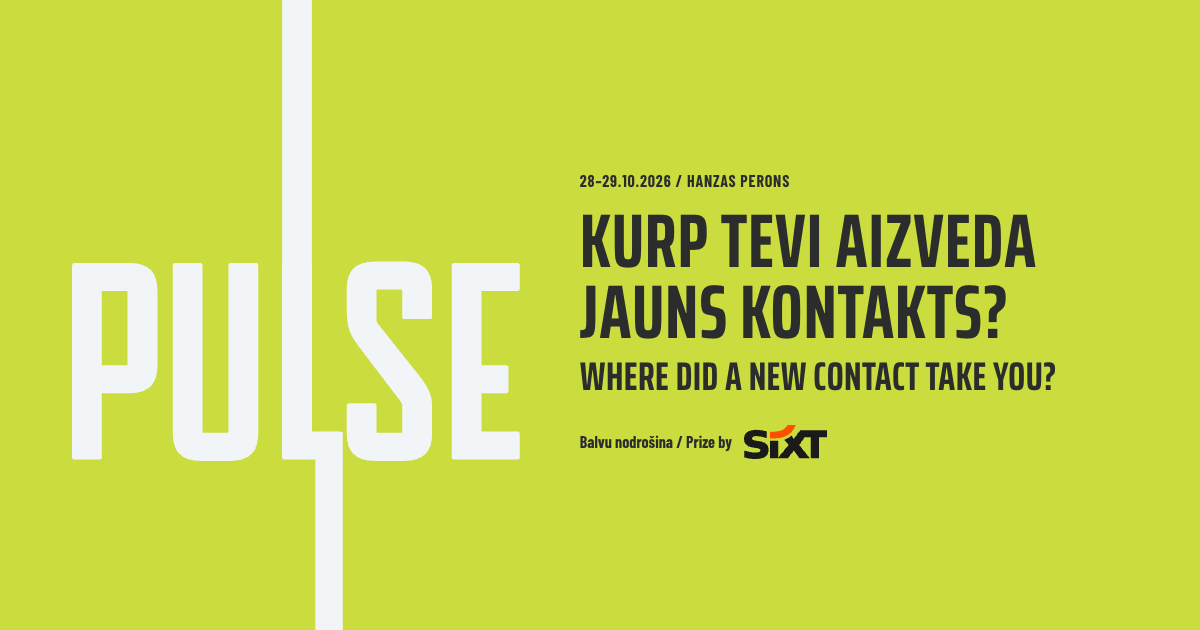
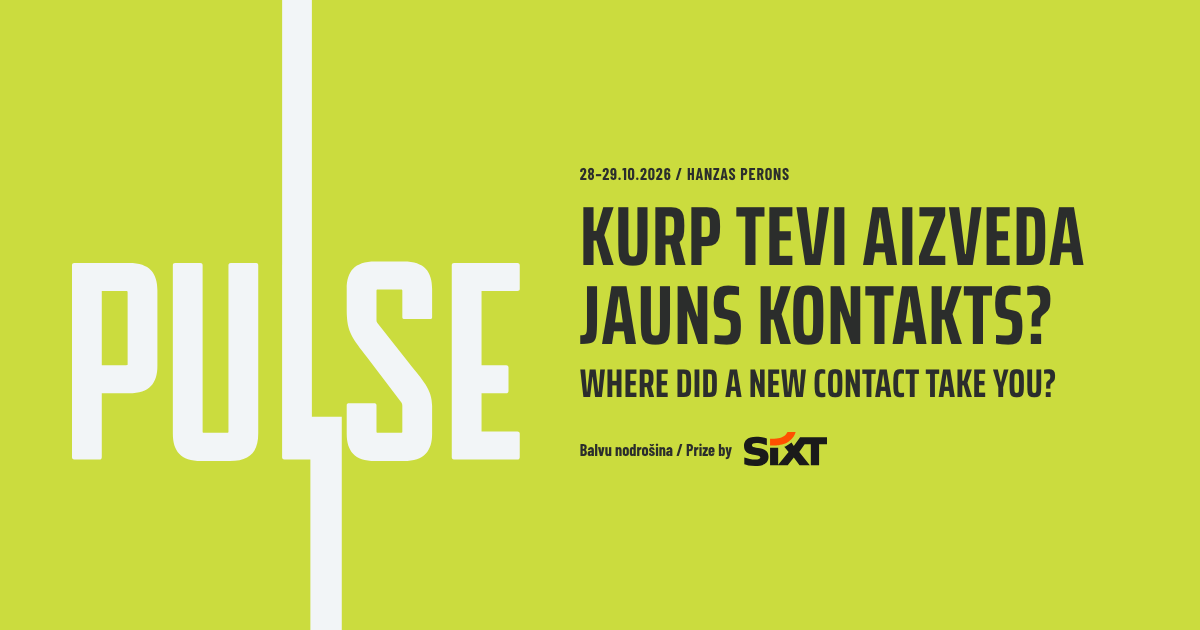
Draw the L-line in one stroke, comet pulse, site's step
Logo: line 2 as on pulseforum.co [as thick as line 1, starts above the
L's foot], so the L reads as one zig-zag; share image and icons redone.
Intro: the whole L-line draws down in one stroke, P U then S E rise.
Pulse: pulse.js, a slim orange comet with a soft glow, two beats.
WebKit clipped the stroke to its path's box: a fill-less rect fixes it.

diff --git a/frontend/index.html b/frontend/index.html
@@ -34,7 +34,7 @@
 
 <main>
   <section id="start" class="screen screen--lime" aria-labelledby="start-title">
-    <div class="cover-mark"><svg class="mark mark--hero" viewBox="54.15 0 575.69 810" role="img" aria-label="PULSE"><defs><clipPath id="zz-a"><rect x="324.33" y="0" width="38.25" height="432"/><path transform="translate(308.04 590.85)" d="M 19.140625 0 L 89.203125 0 C 91.015625 0 92.09375 -0.71875 92.09375 -2.890625 L 92.09375 -33.21875 C 92.09375 -34.671875 91.015625 -36.109375 89.203125 -36.109375 L 54.53125 -36.109375 L 54.53125 -249.921875 C 54.53125 -251.71875 53.453125 -252.8125 51.640625 -252.8125 L 19.140625 -252.8125 C 17.328125 -252.8125 16.25 -251.71875 16.25 -249.921875 L 16.25 -2.890625 C 16.25 -1.8125 16.96875 0 19.140625 0 Z M 19.140625 0"/><rect x="367.03" y="555.31" width="35.25" height="254.69"/></clipPath></defs><g class="mk-letters"><g class="mk-letter"><path transform="translate(37.9 590.85)" d="M 19.140625 0 L 51.640625 0 C 53.453125 0 54.53125 -0.71875 54.53125 -2.890625 L 54.53125 -85.234375 L 89.5625 -85.234375 C 116.296875 -85.234375 126.046875 -98.234375 126.046875 -120.625 L 126.046875 -217.421875 C 126.046875 -239.8125 116.296875 -252.8125 89.5625 -252.8125 L 19.140625 -252.8125 C 17.328125 -252.8125 16.25 -251.71875 16.25 -249.921875 L 16.25 -2.890625 C 16.25 -1.8125 16.96875 0 19.140625 0 Z M 54.53125 -121.34375 L 54.53125 -216.6875 L 85.953125 -216.6875 C 87.40625 -216.6875 87.765625 -216.328125 87.765625 -214.890625 L 87.765625 -123.15625 C 87.765625 -121.703125 87.40625 -121.34375 85.953125 -121.34375 Z M 54.53125 -121.34375"/></g><g class="mk-letter"><path transform="translate(169.36 590.85)" d="M 50.921875 1.8125 L 87.765625 1.8125 C 114.484375 1.8125 124.234375 -11.203125 124.234375 -33.59375 L 124.234375 -249.921875 C 124.234375 -251.71875 123.15625 -252.8125 121.703125 -252.8125 L 88.84375 -252.8125 C 87.40625 -252.8125 85.953125 -251.71875 85.953125 -249.921875 L 85.953125 -36.109375 C 85.953125 -34.671875 85.59375 -34.3125 84.15625 -34.3125 L 54.53125 -34.3125 C 53.09375 -34.3125 52.734375 -34.671875 52.734375 -36.109375 L 52.734375 -249.921875 C 52.734375 -251.71875 51.640625 -252.8125 49.84375 -252.8125 L 17.328125 -252.8125 C 15.53125 -252.8125 14.453125 -251.71875 14.453125 -249.921875 L 14.453125 -33.59375 C 14.453125 -11.203125 24.203125 1.8125 50.921875 1.8125 Z M 50.921875 1.8125"/></g><g class="mk-letter"><path transform="translate(308.04 590.85)" d="M 19.140625 0 L 89.203125 0 C 91.015625 0 92.09375 -0.71875 92.09375 -2.890625 L 92.09375 -33.21875 C 92.09375 -34.671875 91.015625 -36.109375 89.203125 -36.109375 L 54.53125 -36.109375 L 54.53125 -249.921875 C 54.53125 -251.71875 53.453125 -252.8125 51.640625 -252.8125 L 19.140625 -252.8125 C 17.328125 -252.8125 16.25 -251.71875 16.25 -249.921875 L 16.25 -2.890625 C 16.25 -1.8125 16.96875 0 19.140625 0 Z M 19.140625 0"/></g><g class="mk-letter"><path transform="translate(398.33 590.85)" d="M 45.5 1.8125 L 82.34375 1.8125 C 109.0625 1.8125 118.828125 -11.203125 118.828125 -33.59375 L 118.828125 -68.984375 C 118.828125 -90.65625 106.546875 -102.203125 88.84375 -124.59375 L 48.75 -175.15625 C 47.671875 -176.609375 47.3125 -177.6875 47.3125 -179.5 L 47.3125 -216.6875 C 47.3125 -218.140625 47.671875 -218.5 49.125 -218.5 L 78.734375 -218.5 C 80.171875 -218.5 80.53125 -218.140625 80.53125 -216.6875 L 80.53125 -183.109375 C 80.53125 -181.296875 81.984375 -180.578125 83.421875 -180.578125 L 115.9375 -180.578125 C 117.734375 -180.578125 118.828125 -181.296875 118.828125 -183.109375 L 118.828125 -219.21875 C 118.828125 -241.609375 109.0625 -254.609375 82.34375 -254.609375 L 45.5 -254.609375 C 18.78125 -254.609375 9.03125 -241.609375 9.03125 -219.21875 L 9.03125 -192.140625 C 9.03125 -162.515625 16.609375 -156.015625 35.390625 -131.09375 L 79.09375 -73.671875 C 80.171875 -72.234375 80.53125 -70.78125 80.53125 -68.984375 L 80.53125 -36.109375 C 80.53125 -34.671875 80.171875 -34.3125 78.734375 -34.3125 L 49.125 -34.3125 C 47.671875 -34.3125 47.3125 -34.671875 47.3125 -36.109375 L 47.3125 -69.703125 C 47.3125 -71.515625 45.859375 -72.234375 44.421875 -72.234375 L 11.921875 -72.234375 C 10.109375 -72.234375 9.03125 -71.515625 9.03125 -69.703125 L 9.03125 -33.59375 C 9.03125 -11.203125 18.78125 1.8125 45.5 1.8125 Z M 45.5 1.8125"/></g><g class="mk-letter"><path transform="translate(526.18 590.85)" d="M 19.140625 0 L 100.765625 0 C 102.203125 0 103.65625 -0.71875 103.65625 -2.890625 L 103.65625 -33.59375 C 103.65625 -35.03125 102.203125 -36.109375 100.765625 -36.109375 L 54.53125 -36.109375 L 54.53125 -85.234375 L 86.3125 -85.234375 C 87.765625 -85.234375 89.203125 -85.953125 89.203125 -88.125 L 89.203125 -118.453125 C 89.203125 -120.265625 87.765625 -121.34375 86.3125 -121.34375 L 54.53125 -121.34375 L 54.53125 -216.6875 L 100.765625 -216.6875 C 102.203125 -216.6875 103.65625 -217.421875 103.65625 -219.21875 L 103.65625 -249.921875 C 103.65625 -251.71875 102.203125 -252.8125 100.765625 -252.8125 L 19.140625 -252.8125 C 17.328125 -252.8125 16.25 -251.71875 16.25 -249.921875 L 16.25 -2.890625 C 16.25 -1.8125 16.96875 0 19.140625 0 Z M 19.140625 0"/></g></g><rect class="mk-line mk-l1" x="324.33" y="0" width="38.25" height="432"/><rect class="mk-line mk-l2" x="367.03" y="555.31" width="35.25" height="254.69"/><path class="mk-pulse" clip-path="url(#zz-a)" d="M343.46 -80V573.1H384.66V900" fill="none" stroke="#E07D14" stroke-width="44" stroke-dasharray="140 20000"/></svg></div>
+    <div class="cover-mark"><svg class="mark mark--hero" viewBox="54.15 0 575.69 810" role="img" aria-label="PULSE" data-pulse="hero"><defs><clipPath id="zz-a"><rect x="324.33" y="0" width="38.25" height="432"/><path transform="translate(308.04 590.85)" d="M 19.140625 0 L 89.203125 0 C 91.015625 0 92.09375 -0.71875 92.09375 -2.890625 L 92.09375 -33.21875 C 92.09375 -34.671875 91.015625 -36.109375 89.203125 -36.109375 L 54.53125 -36.109375 L 54.53125 -249.921875 C 54.53125 -251.71875 53.453125 -252.8125 51.640625 -252.8125 L 19.140625 -252.8125 C 17.328125 -252.8125 16.25 -251.71875 16.25 -249.921875 L 16.25 -2.890625 C 16.25 -1.8125 16.96875 0 19.140625 0 Z M 19.140625 0"/><rect x="360.64" y="535.92" width="40.37" height="274.08"/></clipPath></defs><g class="mk-letters"><g class="mk-letter"><path transform="translate(37.9 590.85)" d="M 19.140625 0 L 51.640625 0 C 53.453125 0 54.53125 -0.71875 54.53125 -2.890625 L 54.53125 -85.234375 L 89.5625 -85.234375 C 116.296875 -85.234375 126.046875 -98.234375 126.046875 -120.625 L 126.046875 -217.421875 C 126.046875 -239.8125 116.296875 -252.8125 89.5625 -252.8125 L 19.140625 -252.8125 C 17.328125 -252.8125 16.25 -251.71875 16.25 -249.921875 L 16.25 -2.890625 C 16.25 -1.8125 16.96875 0 19.140625 0 Z M 54.53125 -121.34375 L 54.53125 -216.6875 L 85.953125 -216.6875 C 87.40625 -216.6875 87.765625 -216.328125 87.765625 -214.890625 L 87.765625 -123.15625 C 87.765625 -121.703125 87.40625 -121.34375 85.953125 -121.34375 Z M 54.53125 -121.34375"/></g><g class="mk-letter"><path transform="translate(169.36 590.85)" d="M 50.921875 1.8125 L 87.765625 1.8125 C 114.484375 1.8125 124.234375 -11.203125 124.234375 -33.59375 L 124.234375 -249.921875 C 124.234375 -251.71875 123.15625 -252.8125 121.703125 -252.8125 L 88.84375 -252.8125 C 87.40625 -252.8125 85.953125 -251.71875 85.953125 -249.921875 L 85.953125 -36.109375 C 85.953125 -34.671875 85.59375 -34.3125 84.15625 -34.3125 L 54.53125 -34.3125 C 53.09375 -34.3125 52.734375 -34.671875 52.734375 -36.109375 L 52.734375 -249.921875 C 52.734375 -251.71875 51.640625 -252.8125 49.84375 -252.8125 L 17.328125 -252.8125 C 15.53125 -252.8125 14.453125 -251.71875 14.453125 -249.921875 L 14.453125 -33.59375 C 14.453125 -11.203125 24.203125 1.8125 50.921875 1.8125 Z M 50.921875 1.8125"/></g><g class="mk-letter"><path transform="translate(398.33 590.85)" d="M 45.5 1.8125 L 82.34375 1.8125 C 109.0625 1.8125 118.828125 -11.203125 118.828125 -33.59375 L 118.828125 -68.984375 C 118.828125 -90.65625 106.546875 -102.203125 88.84375 -124.59375 L 48.75 -175.15625 C 47.671875 -176.609375 47.3125 -177.6875 47.3125 -179.5 L 47.3125 -216.6875 C 47.3125 -218.140625 47.671875 -218.5 49.125 -218.5 L 78.734375 -218.5 C 80.171875 -218.5 80.53125 -218.140625 80.53125 -216.6875 L 80.53125 -183.109375 C 80.53125 -181.296875 81.984375 -180.578125 83.421875 -180.578125 L 115.9375 -180.578125 C 117.734375 -180.578125 118.828125 -181.296875 118.828125 -183.109375 L 118.828125 -219.21875 C 118.828125 -241.609375 109.0625 -254.609375 82.34375 -254.609375 L 45.5 -254.609375 C 18.78125 -254.609375 9.03125 -241.609375 9.03125 -219.21875 L 9.03125 -192.140625 C 9.03125 -162.515625 16.609375 -156.015625 35.390625 -131.09375 L 79.09375 -73.671875 C 80.171875 -72.234375 80.53125 -70.78125 80.53125 -68.984375 L 80.53125 -36.109375 C 80.53125 -34.671875 80.171875 -34.3125 78.734375 -34.3125 L 49.125 -34.3125 C 47.671875 -34.3125 47.3125 -34.671875 47.3125 -36.109375 L 47.3125 -69.703125 C 47.3125 -71.515625 45.859375 -72.234375 44.421875 -72.234375 L 11.921875 -72.234375 C 10.109375 -72.234375 9.03125 -71.515625 9.03125 -69.703125 L 9.03125 -33.59375 C 9.03125 -11.203125 18.78125 1.8125 45.5 1.8125 Z M 45.5 1.8125"/></g><g class="mk-letter"><path transform="translate(526.18 590.85)" d="M 19.140625 0 L 100.765625 0 C 102.203125 0 103.65625 -0.71875 103.65625 -2.890625 L 103.65625 -33.59375 C 103.65625 -35.03125 102.203125 -36.109375 100.765625 -36.109375 L 54.53125 -36.109375 L 54.53125 -85.234375 L 86.3125 -85.234375 C 87.765625 -85.234375 89.203125 -85.953125 89.203125 -88.125 L 89.203125 -118.453125 C 89.203125 -120.265625 87.765625 -121.34375 86.3125 -121.34375 L 54.53125 -121.34375 L 54.53125 -216.6875 L 100.765625 -216.6875 C 102.203125 -216.6875 103.65625 -217.421875 103.65625 -219.21875 L 103.65625 -249.921875 C 103.65625 -251.71875 102.203125 -252.8125 100.765625 -252.8125 L 19.140625 -252.8125 C 17.328125 -252.8125 16.25 -251.71875 16.25 -249.921875 L 16.25 -2.890625 C 16.25 -1.8125 16.96875 0 19.140625 0 Z M 19.140625 0"/></g></g><g clip-path="url(#zz-a)"><rect x="54.15" y="0" width="575.69" height="810" fill="none"/><path class="mk-zz" d="M343.46 0V563.39H380.83V810" pathLength="1" fill="none" stroke="currentColor" stroke-width="60"/></g></svg></div>
     <div class="cover-body">
       <p class="date">28–29.10.2026 / Hanzas perons</p>
       <h1 class="display" id="start-title" lang="lv">Kurp Tevi aizveda jauns kontakts?</h1>
@@ -49,7 +49,7 @@
   </section>
 
   <form id="entry" class="flow" novalidate hidden>
-    <header class="rail" aria-hidden="true"><svg class="mark mark--rail" viewBox="54.15 200 575.69 8800"><defs><clipPath id="zz-r"><rect x="324.33" y="0" width="38.25" height="432"/><path transform="translate(308.04 590.85)" d="M 19.140625 0 L 89.203125 0 C 91.015625 0 92.09375 -0.71875 92.09375 -2.890625 L 92.09375 -33.21875 C 92.09375 -34.671875 91.015625 -36.109375 89.203125 -36.109375 L 54.53125 -36.109375 L 54.53125 -249.921875 C 54.53125 -251.71875 53.453125 -252.8125 51.640625 -252.8125 L 19.140625 -252.8125 C 17.328125 -252.8125 16.25 -251.71875 16.25 -249.921875 L 16.25 -2.890625 C 16.25 -1.8125 16.96875 0 19.140625 0 Z M 19.140625 0"/><rect x="367.03" y="555.31" width="35.25" height="8444.69"/></clipPath></defs><g class="mk-letters"><g class="mk-letter"><path transform="translate(37.9 590.85)" d="M 19.140625 0 L 51.640625 0 C 53.453125 0 54.53125 -0.71875 54.53125 -2.890625 L 54.53125 -85.234375 L 89.5625 -85.234375 C 116.296875 -85.234375 126.046875 -98.234375 126.046875 -120.625 L 126.046875 -217.421875 C 126.046875 -239.8125 116.296875 -252.8125 89.5625 -252.8125 L 19.140625 -252.8125 C 17.328125 -252.8125 16.25 -251.71875 16.25 -249.921875 L 16.25 -2.890625 C 16.25 -1.8125 16.96875 0 19.140625 0 Z M 54.53125 -121.34375 L 54.53125 -216.6875 L 85.953125 -216.6875 C 87.40625 -216.6875 87.765625 -216.328125 87.765625 -214.890625 L 87.765625 -123.15625 C 87.765625 -121.703125 87.40625 -121.34375 85.953125 -121.34375 Z M 54.53125 -121.34375"/></g><g class="mk-letter"><path transform="translate(169.36 590.85)" d="M 50.921875 1.8125 L 87.765625 1.8125 C 114.484375 1.8125 124.234375 -11.203125 124.234375 -33.59375 L 124.234375 -249.921875 C 124.234375 -251.71875 123.15625 -252.8125 121.703125 -252.8125 L 88.84375 -252.8125 C 87.40625 -252.8125 85.953125 -251.71875 85.953125 -249.921875 L 85.953125 -36.109375 C 85.953125 -34.671875 85.59375 -34.3125 84.15625 -34.3125 L 54.53125 -34.3125 C 53.09375 -34.3125 52.734375 -34.671875 52.734375 -36.109375 L 52.734375 -249.921875 C 52.734375 -251.71875 51.640625 -252.8125 49.84375 -252.8125 L 17.328125 -252.8125 C 15.53125 -252.8125 14.453125 -251.71875 14.453125 -249.921875 L 14.453125 -33.59375 C 14.453125 -11.203125 24.203125 1.8125 50.921875 1.8125 Z M 50.921875 1.8125"/></g><g class="mk-letter"><path transform="translate(308.04 590.85)" d="M 19.140625 0 L 89.203125 0 C 91.015625 0 92.09375 -0.71875 92.09375 -2.890625 L 92.09375 -33.21875 C 92.09375 -34.671875 91.015625 -36.109375 89.203125 -36.109375 L 54.53125 -36.109375 L 54.53125 -249.921875 C 54.53125 -251.71875 53.453125 -252.8125 51.640625 -252.8125 L 19.140625 -252.8125 C 17.328125 -252.8125 16.25 -251.71875 16.25 -249.921875 L 16.25 -2.890625 C 16.25 -1.8125 16.96875 0 19.140625 0 Z M 19.140625 0"/></g><g class="mk-letter"><path transform="translate(398.33 590.85)" d="M 45.5 1.8125 L 82.34375 1.8125 C 109.0625 1.8125 118.828125 -11.203125 118.828125 -33.59375 L 118.828125 -68.984375 C 118.828125 -90.65625 106.546875 -102.203125 88.84375 -124.59375 L 48.75 -175.15625 C 47.671875 -176.609375 47.3125 -177.6875 47.3125 -179.5 L 47.3125 -216.6875 C 47.3125 -218.140625 47.671875 -218.5 49.125 -218.5 L 78.734375 -218.5 C 80.171875 -218.5 80.53125 -218.140625 80.53125 -216.6875 L 80.53125 -183.109375 C 80.53125 -181.296875 81.984375 -180.578125 83.421875 -180.578125 L 115.9375 -180.578125 C 117.734375 -180.578125 118.828125 -181.296875 118.828125 -183.109375 L 118.828125 -219.21875 C 118.828125 -241.609375 109.0625 -254.609375 82.34375 -254.609375 L 45.5 -254.609375 C 18.78125 -254.609375 9.03125 -241.609375 9.03125 -219.21875 L 9.03125 -192.140625 C 9.03125 -162.515625 16.609375 -156.015625 35.390625 -131.09375 L 79.09375 -73.671875 C 80.171875 -72.234375 80.53125 -70.78125 80.53125 -68.984375 L 80.53125 -36.109375 C 80.53125 -34.671875 80.171875 -34.3125 78.734375 -34.3125 L 49.125 -34.3125 C 47.671875 -34.3125 47.3125 -34.671875 47.3125 -36.109375 L 47.3125 -69.703125 C 47.3125 -71.515625 45.859375 -72.234375 44.421875 -72.234375 L 11.921875 -72.234375 C 10.109375 -72.234375 9.03125 -71.515625 9.03125 -69.703125 L 9.03125 -33.59375 C 9.03125 -11.203125 18.78125 1.8125 45.5 1.8125 Z M 45.5 1.8125"/></g><g class="mk-letter"><path transform="translate(526.18 590.85)" d="M 19.140625 0 L 100.765625 0 C 102.203125 0 103.65625 -0.71875 103.65625 -2.890625 L 103.65625 -33.59375 C 103.65625 -35.03125 102.203125 -36.109375 100.765625 -36.109375 L 54.53125 -36.109375 L 54.53125 -85.234375 L 86.3125 -85.234375 C 87.765625 -85.234375 89.203125 -85.953125 89.203125 -88.125 L 89.203125 -118.453125 C 89.203125 -120.265625 87.765625 -121.34375 86.3125 -121.34375 L 54.53125 -121.34375 L 54.53125 -216.6875 L 100.765625 -216.6875 C 102.203125 -216.6875 103.65625 -217.421875 103.65625 -219.21875 L 103.65625 -249.921875 C 103.65625 -251.71875 102.203125 -252.8125 100.765625 -252.8125 L 19.140625 -252.8125 C 17.328125 -252.8125 16.25 -251.71875 16.25 -249.921875 L 16.25 -2.890625 C 16.25 -1.8125 16.96875 0 19.140625 0 Z M 19.140625 0"/></g></g><rect class="mk-line mk-l1" x="324.33" y="0" width="38.25" height="432"/><rect class="mk-line mk-l2" x="367.03" y="555.31" width="35.25" height="8444.69"/><path class="mk-pulse" clip-path="url(#zz-r)" d="M343.46 120V573.1H384.66V9100" fill="none" stroke="#E07D14" stroke-width="44" stroke-dasharray="700 20000"/></svg></header>
+    <header class="rail" aria-hidden="true"><svg class="mark mark--rail" viewBox="54.15 200 575.69 8800" data-pulse="rail"><defs><clipPath id="zz-r"><rect x="324.33" y="0" width="38.25" height="432"/><path transform="translate(308.04 590.85)" d="M 19.140625 0 L 89.203125 0 C 91.015625 0 92.09375 -0.71875 92.09375 -2.890625 L 92.09375 -33.21875 C 92.09375 -34.671875 91.015625 -36.109375 89.203125 -36.109375 L 54.53125 -36.109375 L 54.53125 -249.921875 C 54.53125 -251.71875 53.453125 -252.8125 51.640625 -252.8125 L 19.140625 -252.8125 C 17.328125 -252.8125 16.25 -251.71875 16.25 -249.921875 L 16.25 -2.890625 C 16.25 -1.8125 16.96875 0 19.140625 0 Z M 19.140625 0"/><rect x="360.64" y="535.92" width="40.37" height="8464.08"/></clipPath></defs><g class="mk-letters"><g class="mk-letter"><path transform="translate(37.9 590.85)" d="M 19.140625 0 L 51.640625 0 C 53.453125 0 54.53125 -0.71875 54.53125 -2.890625 L 54.53125 -85.234375 L 89.5625 -85.234375 C 116.296875 -85.234375 126.046875 -98.234375 126.046875 -120.625 L 126.046875 -217.421875 C 126.046875 -239.8125 116.296875 -252.8125 89.5625 -252.8125 L 19.140625 -252.8125 C 17.328125 -252.8125 16.25 -251.71875 16.25 -249.921875 L 16.25 -2.890625 C 16.25 -1.8125 16.96875 0 19.140625 0 Z M 54.53125 -121.34375 L 54.53125 -216.6875 L 85.953125 -216.6875 C 87.40625 -216.6875 87.765625 -216.328125 87.765625 -214.890625 L 87.765625 -123.15625 C 87.765625 -121.703125 87.40625 -121.34375 85.953125 -121.34375 Z M 54.53125 -121.34375"/></g><g class="mk-letter"><path transform="translate(169.36 590.85)" d="M 50.921875 1.8125 L 87.765625 1.8125 C 114.484375 1.8125 124.234375 -11.203125 124.234375 -33.59375 L 124.234375 -249.921875 C 124.234375 -251.71875 123.15625 -252.8125 121.703125 -252.8125 L 88.84375 -252.8125 C 87.40625 -252.8125 85.953125 -251.71875 85.953125 -249.921875 L 85.953125 -36.109375 C 85.953125 -34.671875 85.59375 -34.3125 84.15625 -34.3125 L 54.53125 -34.3125 C 53.09375 -34.3125 52.734375 -34.671875 52.734375 -36.109375 L 52.734375 -249.921875 C 52.734375 -251.71875 51.640625 -252.8125 49.84375 -252.8125 L 17.328125 -252.8125 C 15.53125 -252.8125 14.453125 -251.71875 14.453125 -249.921875 L 14.453125 -33.59375 C 14.453125 -11.203125 24.203125 1.8125 50.921875 1.8125 Z M 50.921875 1.8125"/></g><g class="mk-letter"><path transform="translate(398.33 590.85)" d="M 45.5 1.8125 L 82.34375 1.8125 C 109.0625 1.8125 118.828125 -11.203125 118.828125 -33.59375 L 118.828125 -68.984375 C 118.828125 -90.65625 106.546875 -102.203125 88.84375 -124.59375 L 48.75 -175.15625 C 47.671875 -176.609375 47.3125 -177.6875 47.3125 -179.5 L 47.3125 -216.6875 C 47.3125 -218.140625 47.671875 -218.5 49.125 -218.5 L 78.734375 -218.5 C 80.171875 -218.5 80.53125 -218.140625 80.53125 -216.6875 L 80.53125 -183.109375 C 80.53125 -181.296875 81.984375 -180.578125 83.421875 -180.578125 L 115.9375 -180.578125 C 117.734375 -180.578125 118.828125 -181.296875 118.828125 -183.109375 L 118.828125 -219.21875 C 118.828125 -241.609375 109.0625 -254.609375 82.34375 -254.609375 L 45.5 -254.609375 C 18.78125 -254.609375 9.03125 -241.609375 9.03125 -219.21875 L 9.03125 -192.140625 C 9.03125 -162.515625 16.609375 -156.015625 35.390625 -131.09375 L 79.09375 -73.671875 C 80.171875 -72.234375 80.53125 -70.78125 80.53125 -68.984375 L 80.53125 -36.109375 C 80.53125 -34.671875 80.171875 -34.3125 78.734375 -34.3125 L 49.125 -34.3125 C 47.671875 -34.3125 47.3125 -34.671875 47.3125 -36.109375 L 47.3125 -69.703125 C 47.3125 -71.515625 45.859375 -72.234375 44.421875 -72.234375 L 11.921875 -72.234375 C 10.109375 -72.234375 9.03125 -71.515625 9.03125 -69.703125 L 9.03125 -33.59375 C 9.03125 -11.203125 18.78125 1.8125 45.5 1.8125 Z M 45.5 1.8125"/></g><g class="mk-letter"><path transform="translate(526.18 590.85)" d="M 19.140625 0 L 100.765625 0 C 102.203125 0 103.65625 -0.71875 103.65625 -2.890625 L 103.65625 -33.59375 C 103.65625 -35.03125 102.203125 -36.109375 100.765625 -36.109375 L 54.53125 -36.109375 L 54.53125 -85.234375 L 86.3125 -85.234375 C 87.765625 -85.234375 89.203125 -85.953125 89.203125 -88.125 L 89.203125 -118.453125 C 89.203125 -120.265625 87.765625 -121.34375 86.3125 -121.34375 L 54.53125 -121.34375 L 54.53125 -216.6875 L 100.765625 -216.6875 C 102.203125 -216.6875 103.65625 -217.421875 103.65625 -219.21875 L 103.65625 -249.921875 C 103.65625 -251.71875 102.203125 -252.8125 100.765625 -252.8125 L 19.140625 -252.8125 C 17.328125 -252.8125 16.25 -251.71875 16.25 -249.921875 L 16.25 -2.890625 C 16.25 -1.8125 16.96875 0 19.140625 0 Z M 19.140625 0"/></g></g><g clip-path="url(#zz-r)"><rect x="54.15" y="200" width="575.69" height="8800" fill="none"/><path class="mk-zz" d="M343.46 200V563.39H380.83V9000" pathLength="1" fill="none" stroke="currentColor" stroke-width="60"/></g></svg></header>
     <div class="flow-top">
       <button type="button" class="link-btn" id="lang-switch" data-t-aria="langSwitchAria"><span data-t="langSwitch">English</span></button>
     </div>
@@ -102,7 +102,7 @@
 
   <section id="done" class="screen screen--lime" hidden aria-live="polite">
     <div class="confetti" id="confetti" aria-hidden="true"></div>
-    <div class="cover-mark"><svg class="mark mark--hero" viewBox="54.15 0 575.69 810" role="img" aria-label="PULSE"><defs><clipPath id="zz-b"><rect x="324.33" y="0" width="38.25" height="432"/><path transform="translate(308.04 590.85)" d="M 19.140625 0 L 89.203125 0 C 91.015625 0 92.09375 -0.71875 92.09375 -2.890625 L 92.09375 -33.21875 C 92.09375 -34.671875 91.015625 -36.109375 89.203125 -36.109375 L 54.53125 -36.109375 L 54.53125 -249.921875 C 54.53125 -251.71875 53.453125 -252.8125 51.640625 -252.8125 L 19.140625 -252.8125 C 17.328125 -252.8125 16.25 -251.71875 16.25 -249.921875 L 16.25 -2.890625 C 16.25 -1.8125 16.96875 0 19.140625 0 Z M 19.140625 0"/><rect x="367.03" y="555.31" width="35.25" height="254.69"/></clipPath></defs><g class="mk-letters"><g class="mk-letter"><path transform="translate(37.9 590.85)" d="M 19.140625 0 L 51.640625 0 C 53.453125 0 54.53125 -0.71875 54.53125 -2.890625 L 54.53125 -85.234375 L 89.5625 -85.234375 C 116.296875 -85.234375 126.046875 -98.234375 126.046875 -120.625 L 126.046875 -217.421875 C 126.046875 -239.8125 116.296875 -252.8125 89.5625 -252.8125 L 19.140625 -252.8125 C 17.328125 -252.8125 16.25 -251.71875 16.25 -249.921875 L 16.25 -2.890625 C 16.25 -1.8125 16.96875 0 19.140625 0 Z M 54.53125 -121.34375 L 54.53125 -216.6875 L 85.953125 -216.6875 C 87.40625 -216.6875 87.765625 -216.328125 87.765625 -214.890625 L 87.765625 -123.15625 C 87.765625 -121.703125 87.40625 -121.34375 85.953125 -121.34375 Z M 54.53125 -121.34375"/></g><g class="mk-letter"><path transform="translate(169.36 590.85)" d="M 50.921875 1.8125 L 87.765625 1.8125 C 114.484375 1.8125 124.234375 -11.203125 124.234375 -33.59375 L 124.234375 -249.921875 C 124.234375 -251.71875 123.15625 -252.8125 121.703125 -252.8125 L 88.84375 -252.8125 C 87.40625 -252.8125 85.953125 -251.71875 85.953125 -249.921875 L 85.953125 -36.109375 C 85.953125 -34.671875 85.59375 -34.3125 84.15625 -34.3125 L 54.53125 -34.3125 C 53.09375 -34.3125 52.734375 -34.671875 52.734375 -36.109375 L 52.734375 -249.921875 C 52.734375 -251.71875 51.640625 -252.8125 49.84375 -252.8125 L 17.328125 -252.8125 C 15.53125 -252.8125 14.453125 -251.71875 14.453125 -249.921875 L 14.453125 -33.59375 C 14.453125 -11.203125 24.203125 1.8125 50.921875 1.8125 Z M 50.921875 1.8125"/></g><g class="mk-letter"><path transform="translate(308.04 590.85)" d="M 19.140625 0 L 89.203125 0 C 91.015625 0 92.09375 -0.71875 92.09375 -2.890625 L 92.09375 -33.21875 C 92.09375 -34.671875 91.015625 -36.109375 89.203125 -36.109375 L 54.53125 -36.109375 L 54.53125 -249.921875 C 54.53125 -251.71875 53.453125 -252.8125 51.640625 -252.8125 L 19.140625 -252.8125 C 17.328125 -252.8125 16.25 -251.71875 16.25 -249.921875 L 16.25 -2.890625 C 16.25 -1.8125 16.96875 0 19.140625 0 Z M 19.140625 0"/></g><g class="mk-letter"><path transform="translate(398.33 590.85)" d="M 45.5 1.8125 L 82.34375 1.8125 C 109.0625 1.8125 118.828125 -11.203125 118.828125 -33.59375 L 118.828125 -68.984375 C 118.828125 -90.65625 106.546875 -102.203125 88.84375 -124.59375 L 48.75 -175.15625 C 47.671875 -176.609375 47.3125 -177.6875 47.3125 -179.5 L 47.3125 -216.6875 C 47.3125 -218.140625 47.671875 -218.5 49.125 -218.5 L 78.734375 -218.5 C 80.171875 -218.5 80.53125 -218.140625 80.53125 -216.6875 L 80.53125 -183.109375 C 80.53125 -181.296875 81.984375 -180.578125 83.421875 -180.578125 L 115.9375 -180.578125 C 117.734375 -180.578125 118.828125 -181.296875 118.828125 -183.109375 L 118.828125 -219.21875 C 118.828125 -241.609375 109.0625 -254.609375 82.34375 -254.609375 L 45.5 -254.609375 C 18.78125 -254.609375 9.03125 -241.609375 9.03125 -219.21875 L 9.03125 -192.140625 C 9.03125 -162.515625 16.609375 -156.015625 35.390625 -131.09375 L 79.09375 -73.671875 C 80.171875 -72.234375 80.53125 -70.78125 80.53125 -68.984375 L 80.53125 -36.109375 C 80.53125 -34.671875 80.171875 -34.3125 78.734375 -34.3125 L 49.125 -34.3125 C 47.671875 -34.3125 47.3125 -34.671875 47.3125 -36.109375 L 47.3125 -69.703125 C 47.3125 -71.515625 45.859375 -72.234375 44.421875 -72.234375 L 11.921875 -72.234375 C 10.109375 -72.234375 9.03125 -71.515625 9.03125 -69.703125 L 9.03125 -33.59375 C 9.03125 -11.203125 18.78125 1.8125 45.5 1.8125 Z M 45.5 1.8125"/></g><g class="mk-letter"><path transform="translate(526.18 590.85)" d="M 19.140625 0 L 100.765625 0 C 102.203125 0 103.65625 -0.71875 103.65625 -2.890625 L 103.65625 -33.59375 C 103.65625 -35.03125 102.203125 -36.109375 100.765625 -36.109375 L 54.53125 -36.109375 L 54.53125 -85.234375 L 86.3125 -85.234375 C 87.765625 -85.234375 89.203125 -85.953125 89.203125 -88.125 L 89.203125 -118.453125 C 89.203125 -120.265625 87.765625 -121.34375 86.3125 -121.34375 L 54.53125 -121.34375 L 54.53125 -216.6875 L 100.765625 -216.6875 C 102.203125 -216.6875 103.65625 -217.421875 103.65625 -219.21875 L 103.65625 -249.921875 C 103.65625 -251.71875 102.203125 -252.8125 100.765625 -252.8125 L 19.140625 -252.8125 C 17.328125 -252.8125 16.25 -251.71875 16.25 -249.921875 L 16.25 -2.890625 C 16.25 -1.8125 16.96875 0 19.140625 0 Z M 19.140625 0"/></g></g><rect class="mk-line mk-l1" x="324.33" y="0" width="38.25" height="432"/><rect class="mk-line mk-l2" x="367.03" y="555.31" width="35.25" height="254.69"/><path class="mk-pulse" clip-path="url(#zz-b)" d="M343.46 -80V573.1H384.66V900" fill="none" stroke="#E07D14" stroke-width="44" stroke-dasharray="140 20000"/></svg></div>
+    <div class="cover-mark"><svg class="mark mark--hero" viewBox="54.15 0 575.69 810" role="img" aria-label="PULSE" data-pulse="hero"><defs><clipPath id="zz-b"><rect x="324.33" y="0" width="38.25" height="432"/><path transform="translate(308.04 590.85)" d="M 19.140625 0 L 89.203125 0 C 91.015625 0 92.09375 -0.71875 92.09375 -2.890625 L 92.09375 -33.21875 C 92.09375 -34.671875 91.015625 -36.109375 89.203125 -36.109375 L 54.53125 -36.109375 L 54.53125 -249.921875 C 54.53125 -251.71875 53.453125 -252.8125 51.640625 -252.8125 L 19.140625 -252.8125 C 17.328125 -252.8125 16.25 -251.71875 16.25 -249.921875 L 16.25 -2.890625 C 16.25 -1.8125 16.96875 0 19.140625 0 Z M 19.140625 0"/><rect x="360.64" y="535.92" width="40.37" height="274.08"/></clipPath></defs><g class="mk-letters"><g class="mk-letter"><path transform="translate(37.9 590.85)" d="M 19.140625 0 L 51.640625 0 C 53.453125 0 54.53125 -0.71875 54.53125 -2.890625 L 54.53125 -85.234375 L 89.5625 -85.234375 C 116.296875 -85.234375 126.046875 -98.234375 126.046875 -120.625 L 126.046875 -217.421875 C 126.046875 -239.8125 116.296875 -252.8125 89.5625 -252.8125 L 19.140625 -252.8125 C 17.328125 -252.8125 16.25 -251.71875 16.25 -249.921875 L 16.25 -2.890625 C 16.25 -1.8125 16.96875 0 19.140625 0 Z M 54.53125 -121.34375 L 54.53125 -216.6875 L 85.953125 -216.6875 C 87.40625 -216.6875 87.765625 -216.328125 87.765625 -214.890625 L 87.765625 -123.15625 C 87.765625 -121.703125 87.40625 -121.34375 85.953125 -121.34375 Z M 54.53125 -121.34375"/></g><g class="mk-letter"><path transform="translate(169.36 590.85)" d="M 50.921875 1.8125 L 87.765625 1.8125 C 114.484375 1.8125 124.234375 -11.203125 124.234375 -33.59375 L 124.234375 -249.921875 C 124.234375 -251.71875 123.15625 -252.8125 121.703125 -252.8125 L 88.84375 -252.8125 C 87.40625 -252.8125 85.953125 -251.71875 85.953125 -249.921875 L 85.953125 -36.109375 C 85.953125 -34.671875 85.59375 -34.3125 84.15625 -34.3125 L 54.53125 -34.3125 C 53.09375 -34.3125 52.734375 -34.671875 52.734375 -36.109375 L 52.734375 -249.921875 C 52.734375 -251.71875 51.640625 -252.8125 49.84375 -252.8125 L 17.328125 -252.8125 C 15.53125 -252.8125 14.453125 -251.71875 14.453125 -249.921875 L 14.453125 -33.59375 C 14.453125 -11.203125 24.203125 1.8125 50.921875 1.8125 Z M 50.921875 1.8125"/></g><g class="mk-letter"><path transform="translate(398.33 590.85)" d="M 45.5 1.8125 L 82.34375 1.8125 C 109.0625 1.8125 118.828125 -11.203125 118.828125 -33.59375 L 118.828125 -68.984375 C 118.828125 -90.65625 106.546875 -102.203125 88.84375 -124.59375 L 48.75 -175.15625 C 47.671875 -176.609375 47.3125 -177.6875 47.3125 -179.5 L 47.3125 -216.6875 C 47.3125 -218.140625 47.671875 -218.5 49.125 -218.5 L 78.734375 -218.5 C 80.171875 -218.5 80.53125 -218.140625 80.53125 -216.6875 L 80.53125 -183.109375 C 80.53125 -181.296875 81.984375 -180.578125 83.421875 -180.578125 L 115.9375 -180.578125 C 117.734375 -180.578125 118.828125 -181.296875 118.828125 -183.109375 L 118.828125 -219.21875 C 118.828125 -241.609375 109.0625 -254.609375 82.34375 -254.609375 L 45.5 -254.609375 C 18.78125 -254.609375 9.03125 -241.609375 9.03125 -219.21875 L 9.03125 -192.140625 C 9.03125 -162.515625 16.609375 -156.015625 35.390625 -131.09375 L 79.09375 -73.671875 C 80.171875 -72.234375 80.53125 -70.78125 80.53125 -68.984375 L 80.53125 -36.109375 C 80.53125 -34.671875 80.171875 -34.3125 78.734375 -34.3125 L 49.125 -34.3125 C 47.671875 -34.3125 47.3125 -34.671875 47.3125 -36.109375 L 47.3125 -69.703125 C 47.3125 -71.515625 45.859375 -72.234375 44.421875 -72.234375 L 11.921875 -72.234375 C 10.109375 -72.234375 9.03125 -71.515625 9.03125 -69.703125 L 9.03125 -33.59375 C 9.03125 -11.203125 18.78125 1.8125 45.5 1.8125 Z M 45.5 1.8125"/></g><g class="mk-letter"><path transform="translate(526.18 590.85)" d="M 19.140625 0 L 100.765625 0 C 102.203125 0 103.65625 -0.71875 103.65625 -2.890625 L 103.65625 -33.59375 C 103.65625 -35.03125 102.203125 -36.109375 100.765625 -36.109375 L 54.53125 -36.109375 L 54.53125 -85.234375 L 86.3125 -85.234375 C 87.765625 -85.234375 89.203125 -85.953125 89.203125 -88.125 L 89.203125 -118.453125 C 89.203125 -120.265625 87.765625 -121.34375 86.3125 -121.34375 L 54.53125 -121.34375 L 54.53125 -216.6875 L 100.765625 -216.6875 C 102.203125 -216.6875 103.65625 -217.421875 103.65625 -219.21875 L 103.65625 -249.921875 C 103.65625 -251.71875 102.203125 -252.8125 100.765625 -252.8125 L 19.140625 -252.8125 C 17.328125 -252.8125 16.25 -251.71875 16.25 -249.921875 L 16.25 -2.890625 C 16.25 -1.8125 16.96875 0 19.140625 0 Z M 19.140625 0"/></g></g><g clip-path="url(#zz-b)"><rect x="54.15" y="0" width="575.69" height="810" fill="none"/><path class="mk-zz" d="M343.46 0V563.39H380.83V810" pathLength="1" fill="none" stroke="currentColor" stroke-width="60"/></g></svg></div>
     <div class="cover-body">
       <p class="date">28–29.10.2026 / Hanzas perons</p>
       <h2 class="display" id="done-title" tabindex="-1">Paldies, Tu esi izlozē!</h2>

diff --git a/frontend/pulse.js b/frontend/pulse.js
@@ -1,0 +1,77 @@
+// The pulse along the PULSE logo's line: a light signal flowing down, right along the L's foot and down again,
+// twice in a row like a heartbeat [ba-dum], then a rest. Builds the comets into every svg[data-pulse] of a screen.
+// Invariant: decoration only, starting after the line has drawn itself; nothing at all under reduced motion.
+
+const NS = "http://www.w3.org/2000/svg";
+const ORANGE = "#E07D14";
+/** The tail's fade behind the head, step by step. */
+const TAIL = Array.from({ length: 12 }, (_, k) => (1 - k / 12) ** 2);
+/** Layer j covers the first j+1 steps; these opacities stack up to TAIL without seams between the steps. */
+const LAYERS = TAIL.map((a, k) => (k === TAIL.length - 1 ? a : 1 - (1 - a) / (1 - TAIL[k + 1])));
+
+/** Path in the mark's own units [starts above the mark, ends below it], its length, and how each mark beats. */
+const KINDS = {
+  hero: {
+    d: "M343.46 -150V563.39H380.83V1000", len: 1187.37, core: 20, seg: 12,
+    halo: [[44, 0.16], [68, 0.09], [96, 0.05]], travel: 1.7, period: 4.6, begin: 1.25, echo: 0.32,
+  },
+  rail: {
+    d: "M343.46 100V563.39H380.83V9100", len: 9037.37, core: 30, seg: 48,
+    halo: [[70, 0.2], [110, 0.11], [150, 0.05]], travel: 2.8, period: 5.6, begin: 1.6, echo: 0.45,
+  },
+};
+
+const el = (name, attrs) => {
+  const node = document.createElementNS(NS, name);
+  for (const [k, v] of Object.entries(attrs)) node.setAttribute(k, String(v));
+  return node;
+};
+
+/** One dash whose front runs from `ahead` to past the path's end, eased, then rests until the next beat. */
+function moving(kind, at, { length, width, opacity, ahead = 0, cap = "butt" }) {
+  const from = length - ahead;
+  const to = from - (kind.len + (TAIL.length + 2) * kind.seg);
+  const path = el("path", {
+    d: kind.d, fill: "none", stroke: ORANGE, "stroke-width": width, opacity, "stroke-linecap": cap,
+    "stroke-dasharray": `${length} 30000`, "stroke-dashoffset": from,
+  });
+  path.append(el("animate", {
+    attributeName: "stroke-dashoffset", values: `${from};${to};${to}`,
+    keyTimes: `0;${(kind.travel / kind.period).toFixed(4)};1`, calcMode: "spline",
+    keySplines: "0.45 0 0.25 1;0 0 1 1", dur: `${kind.period}s`, begin: `${at.toFixed(2)}s`, repeatCount: "indefinite",
+  }));
+  return path;
+}
+
+/** A comet: a soft glow under the mark, and inside the line a round head with a fading tail. The fill-less rect
+ *  over the whole mark keeps WebKit from clipping the comet to its path's narrow box. */
+function comet(kind, at, strength, clipId, box) {
+  const halo = el("g", { class: "mk-comet", opacity: strength });
+  for (const [width, opacity] of kind.halo) {
+    halo.append(moving(kind, at, { length: kind.seg * 2, width, opacity, ahead: kind.seg * 0.4, cap: "round" }));
+  }
+  const core = el("g", { class: "mk-comet", opacity: strength, "clip-path": `url(#${clipId})` });
+  core.append(el("rect", { x: box.x, y: box.y, width: box.width, height: box.height, fill: "none" }));
+  LAYERS.forEach((opacity, j) => core.append(moving(kind, at, { length: kind.seg * (j + 1), width: kind.core, opacity })));
+  core.append(moving(kind, at, { length: 0.01, width: kind.core, opacity: 1, cap: "round" }));
+  return { halo, core };
+}
+
+/** Starts the pulse in every mark of `root`, timed from now; call it each time that screen shows. */
+export function startPulse(root) {
+  if (!root || window.matchMedia("(prefers-reduced-motion: reduce)").matches) return;
+  for (const svg of root.querySelectorAll("svg[data-pulse]")) {
+    const kind = KINDS[svg.dataset.pulse];
+    const clip = svg.querySelector("clipPath");
+    const letters = svg.querySelector(".mk-letters");
+    const line = svg.querySelector(".mk-zz");
+    if (!kind || !clip || !letters || !line) continue;
+    for (const old of svg.querySelectorAll(".mk-comet")) old.remove();
+    const at = svg.getCurrentTime() + kind.begin;
+    const box = svg.viewBox.baseVal;
+    const first = comet(kind, at, 1, clip.id, box);
+    const echo = comet(kind, at + kind.echo, 0.65, clip.id, box);
+    letters.before(first.halo, echo.halo);
+    line.parentNode.after(first.core, echo.core);
+  }
+}

diff --git a/frontend/motion.css b/frontend/motion.css
@@ -1,17 +1,20 @@
-/* Every animation of the guest page: the PULSE mark drawing itself in, the orange pulse that runs down the
-   logo's line, step changes, progress squares, small answers to taps, and square confetti on the thank-you screen.
-   Invariant: transform and opacity only, and prefers-reduced-motion turns all of it off. */
+/* Every animation of the guest page: the PULSE mark drawing its L-line in one stroke, the orange pulse that runs
+   down that line [pulse.js], step changes, progress squares, small answers to taps, and square confetti.
+   Invariant: transform, opacity and stroke-dashoffset only, and prefers-reduced-motion turns all of it off. */
 
-/* Cover screens: the mark draws in, then the words rise */
-.mark--hero .mk-line, .mark--hero .mk-letter { transform-box: fill-box; }
-.mark--hero .mk-l1 { transform-origin: 50% 0; animation: draw 0.5s cubic-bezier(0.2, 0.7, 0.2, 1) both; }
-.mark--hero .mk-letter { animation: letter-in 0.55s 0.28s cubic-bezier(0.2, 0.8, 0.2, 1) both; }
-.mark--hero .mk-letter:nth-child(2) { animation-delay: 0.35s; }
-.mark--hero .mk-letter:nth-child(3) { animation-delay: 0.42s; }
-.mark--hero .mk-letter:nth-child(4) { animation-delay: 0.49s; }
-.mark--hero .mk-letter:nth-child(5) { animation-delay: 0.56s; }
-.mark--hero .mk-l2 { transform-origin: 50% 0; animation: draw 0.45s 0.62s cubic-bezier(0.2, 0.7, 0.2, 1) both; }
-@keyframes draw { from { transform: scaleY(0); } }
+/* The L-line draws itself in one stroke: down, right along the L's foot, down again. pathLength="1" on the path,
+   so 1 is the whole line. P and U rise while it comes down, S and E once it has passed the L. */
+.mk-zz { stroke-dasharray: 1; stroke-dashoffset: 0; }
+.mark--hero .mk-zz { animation: zz-draw 0.95s 0.05s cubic-bezier(0.65, 0, 0.35, 1) both; }
+.mark--rail .mk-zz { animation: zz-draw 1.3s 0.1s cubic-bezier(0.65, 0, 0.35, 1) both; }
+@keyframes zz-draw { from { stroke-dashoffset: 1; } }
+.rail::after { animation: fade-in 0.3s 1.3s ease-out both; }
+@keyframes fade-in { from { opacity: 0; } }
+
+.mark--hero .mk-letter { transform-box: fill-box; animation: letter-in 0.55s 0.3s cubic-bezier(0.2, 0.8, 0.2, 1) both; }
+.mark--hero .mk-letter:nth-child(2) { animation-delay: 0.38s; }
+.mark--hero .mk-letter:nth-child(3) { animation-delay: 0.62s; }
+.mark--hero .mk-letter:nth-child(4) { animation-delay: 0.7s; }
 @keyframes letter-in { from { opacity: 0; transform: translateY(34px); } }
 
 .cover-body > * { animation: rise-in 0.5s cubic-bezier(0.2, 0.8, 0.2, 1) both; }
@@ -23,13 +26,6 @@
 .cover-body > :nth-child(6) { animation-delay: 1.02s; }
 .live:not([hidden]) { animation: rise-in 0.5s cubic-bezier(0.2, 0.8, 0.2, 1) both; }
 @keyframes rise-in { from { opacity: 0; transform: translateY(14px); } }
-
-/* The pulse: one orange signal flows along the logo's line, down, right along the L's foot and down again,
-   as a single dash on one path (cover: the big mark; rail: the small mark and its long line) */
-.mark--hero .mk-pulse { stroke-dashoffset: 140; animation: pulse-hero 4.8s 1.5s linear infinite; }
-@keyframes pulse-hero { 0% { stroke-dashoffset: 140; } 46%, 100% { stroke-dashoffset: -1030; } }
-.mark--rail .mk-pulse { stroke-dashoffset: 700; animation: pulse-rail 5.2s 0.8s linear infinite; }
-@keyframes pulse-rail { 0% { stroke-dashoffset: 700; } 55%, 100% { stroke-dashoffset: -9050; } }
 
 /* Steps slide in from the side they come from */
 .step.enter-fwd { animation: step-fwd 0.26s cubic-bezier(0.2, 0.8, 0.2, 1) both; }
@@ -68,5 +64,5 @@
 
 @media (prefers-reduced-motion: reduce) {
   *, *::before, *::after { animation: none !important; transition: none !important; }
-  .mk-pulse, .confetti { display: none; }
+  .mk-comet, .confetti { display: none; }
 }

diff --git a/frontend/styles.css b/frontend/styles.css
@@ -27,8 +27,8 @@
   --radius: 10px;
   --field-radius: 6px;
   /* The PULSE mark's geometry, as fractions of its box [from the brand book cover]. */
-  --line2-left: 54.35%;
-  --line2-w: 6.12%;
+  --line2-left: 53.24%;
+  --line2-w: 7.01%;
   color-scheme: light;
 }
 
@@ -114,8 +114,8 @@ button, input, textarea { font: inherit; color: inherit; }
 .rail .mark { width: 100%; height: auto; aspect-ratio: 575.69 / 8800; fill: currentColor; }
 .rail::after { content: ""; position: absolute; top: 100%; left: var(--line2-left); width: var(--line2-w); height: 400vh; background: currentColor; }
 .flow-top { padding-top: max(18px, env(safe-area-inset-top)); min-height: 52px; }
-/* Content clears the rail's LINE (54.35% into the mark, 6.12% wide), not the whole mark: the letters sit above the steps. */
-.step { border: 0; margin: 0; padding: 18px calc(var(--rail-w) * 0.4565 + 14px) 0 0; min-width: 0; max-width: 44rem; }
+/* Content clears the rail's LINE (53.24% into the mark, 7.01% wide), not the whole mark: the letters sit above the steps. */
+.step { border: 0; margin: 0; padding: 18px calc(var(--rail-w) * 0.4676 + 14px) 0 0; min-width: 0; max-width: 44rem; }
 .step .step-label { color: var(--orange); display: flex; align-items: center; }
 .dots { display: inline-flex; gap: 6px; margin-right: 12px; }
 .dots i { width: 11px; height: 11px; box-shadow: inset 0 0 0 2px var(--orange); }

diff --git a/frontend/app.js b/frontend/app.js
@@ -6,6 +6,7 @@ import { CATEGORIES, T } from "./strings.js";
 import { LIMITS, SERVER_CODES, chars, contactErrors, newToken, storyError } from "./form.js";
 import { API } from "./config.js";
 import { barColour, buzz, confetti, countUp, lvStories, shake } from "./effects.js";
+import { startPulse } from "./pulse.js";
 
 const KEYS = { lang: "pulse-lang", draft: "pulse-draft", outbox: "pulse-outbox" };
 const RETRY_MS = [3000, 6000, 12000, 20000, 30000];
@@ -95,6 +96,7 @@ function show(screen) {
   $("#done").hidden = screen !== "done";
   document.body.dataset.screen = screen;
   barColour(screen);
+  startPulse($(screen === "flow" ? "#entry" : `#${screen}`));
   window.scrollTo(0, 0);
 }
 
